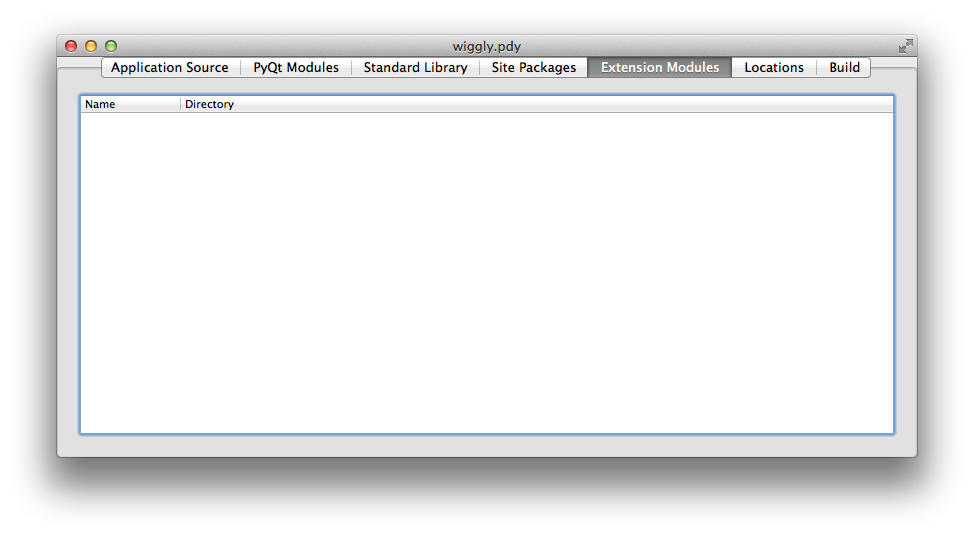
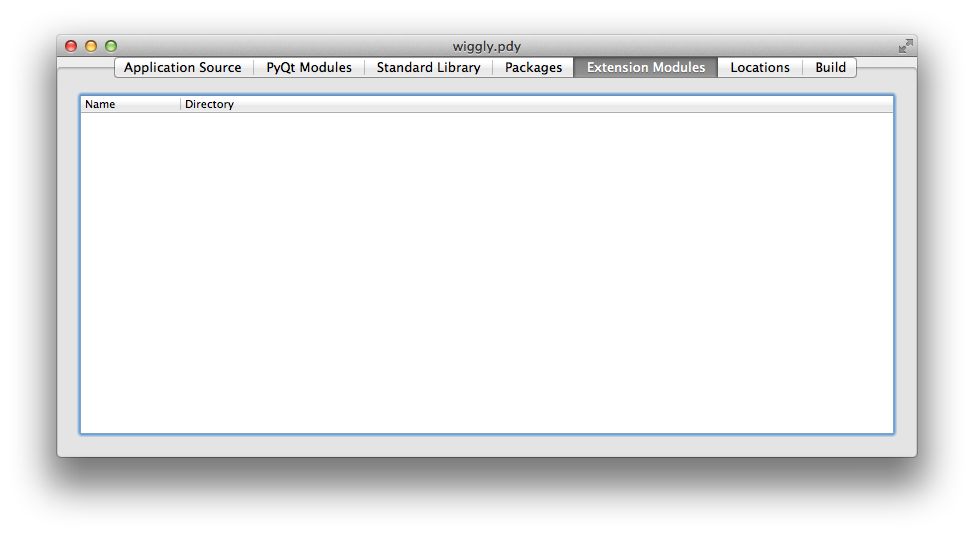
Updated the docs for the revised Packages tab.

Changed region(s): [[0.0924, 0.0896, 0.8932, 0.1493]]

diff --git a/doc/tutorial.rst b/doc/tutorial.rst
@@ -120,10 +120,10 @@ application is shown below.
 .. image:: /images/stdlib_packages_tab.png
     :align: center
 
-This tab is used to scan the directory containing the Python interpreter's
-standard library.  You then specify which individual modules are needed, either
-implicitly or explicitly, by the application.  :program:`pyqtdeploy` does not
-(yet) automatically handle inter-module dependencies.
+This tab is used to scan the directory containing the target Python
+interpreter's standard library.  You then specify which individual modules are
+needed, either implicitly or explicitly, by the application.
+:program:`pyqtdeploy` does not automatically handle inter-module dependencies.
 
 The ``wiggly.py`` script does not explicitly import any standard Python module
 (except for the :mod:`sys` module which is implemented as a builtin).  However,
@@ -132,21 +132,31 @@ internally are included so, for example, the above shows that the :mod:`types`
 and :mod:`warnings` modules will be included and cannot be changed.
 
 
-Defining the ``site-packages`` Packages
----------------------------------------
+Defining Additional Packages
+----------------------------
 
-The tab for defining the ``site-packages`` packages used by the application is
-shown below.
+The tab for defining additional packages used by the application is shown
+below.
 
-.. image:: /images/site_packages_tab.png
+.. image:: /images/packages_tab.png
     :align: center
 
-This tab is used to scan the the Python interpreter's ``site-packages``
-directory.  You then specify which individual modules are needed, either
-implicitly or explicitly, by the application.  :program:`pyqtdeploy` does not
-(yet) automatically handle inter-module dependencies.
+This tab is used to scan a number of directories containing additional Python
+packages.  You then specify which individual modules are needed, either
+implicitly or explicitly, by the application.
 
-The ``wiggly.py`` script does not use any third-party Python packages.
+By default the only directory defined is the target Python interpreter's
+``site-packages`` directory which, unless you have installed additional
+packages, will be empty.  To edit the list of directories just double-click on
+the entry to modify or delete.  To add a new entry just double-click the list
+after the last entry.
+
+In many cases you will want to add the ``site-packages`` directory of your host
+Python interpreter, i.e. the interpreter being used to develop the application,
+where all the additional packages required by your application are already
+installed.
+
+The ``wiggly.py`` script does not use any additional Python packages.
 
 
 Defining the Extension Modules
